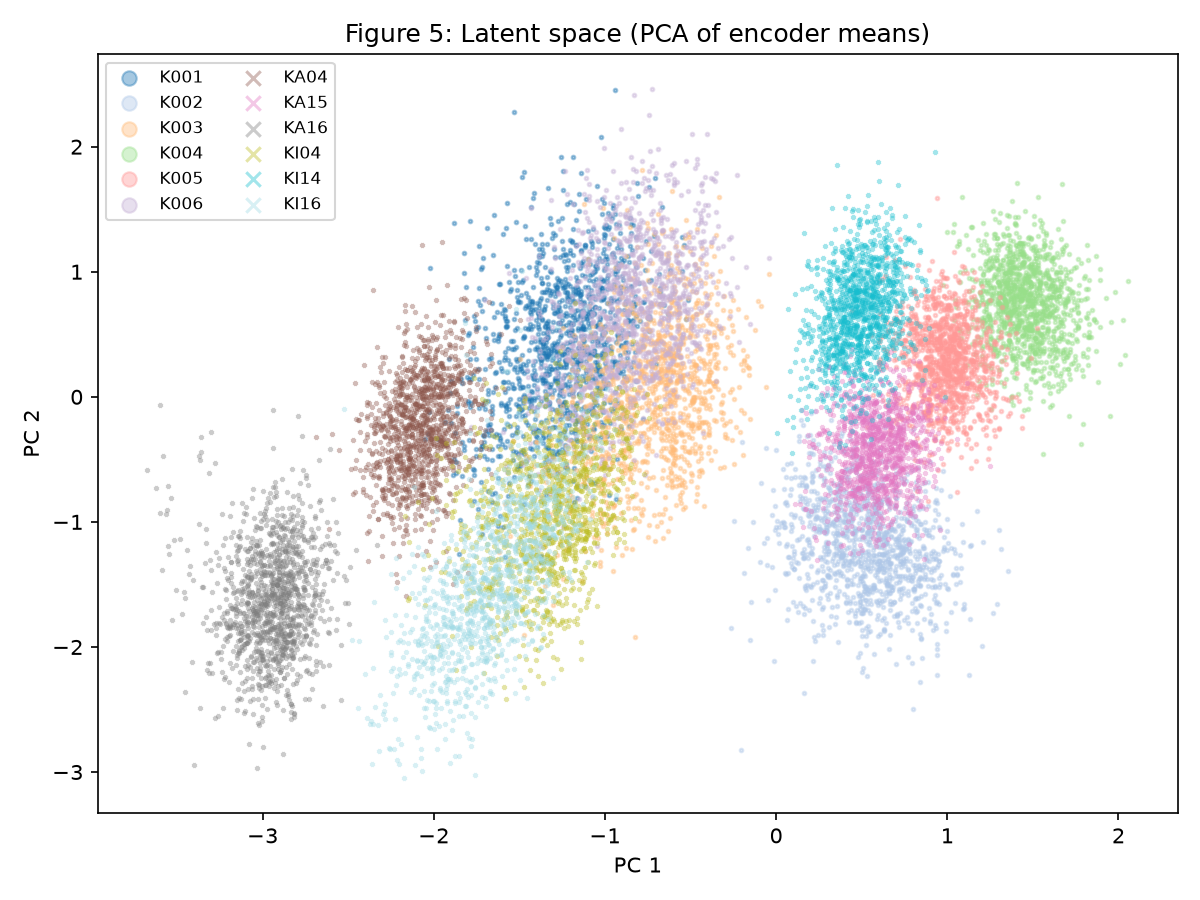
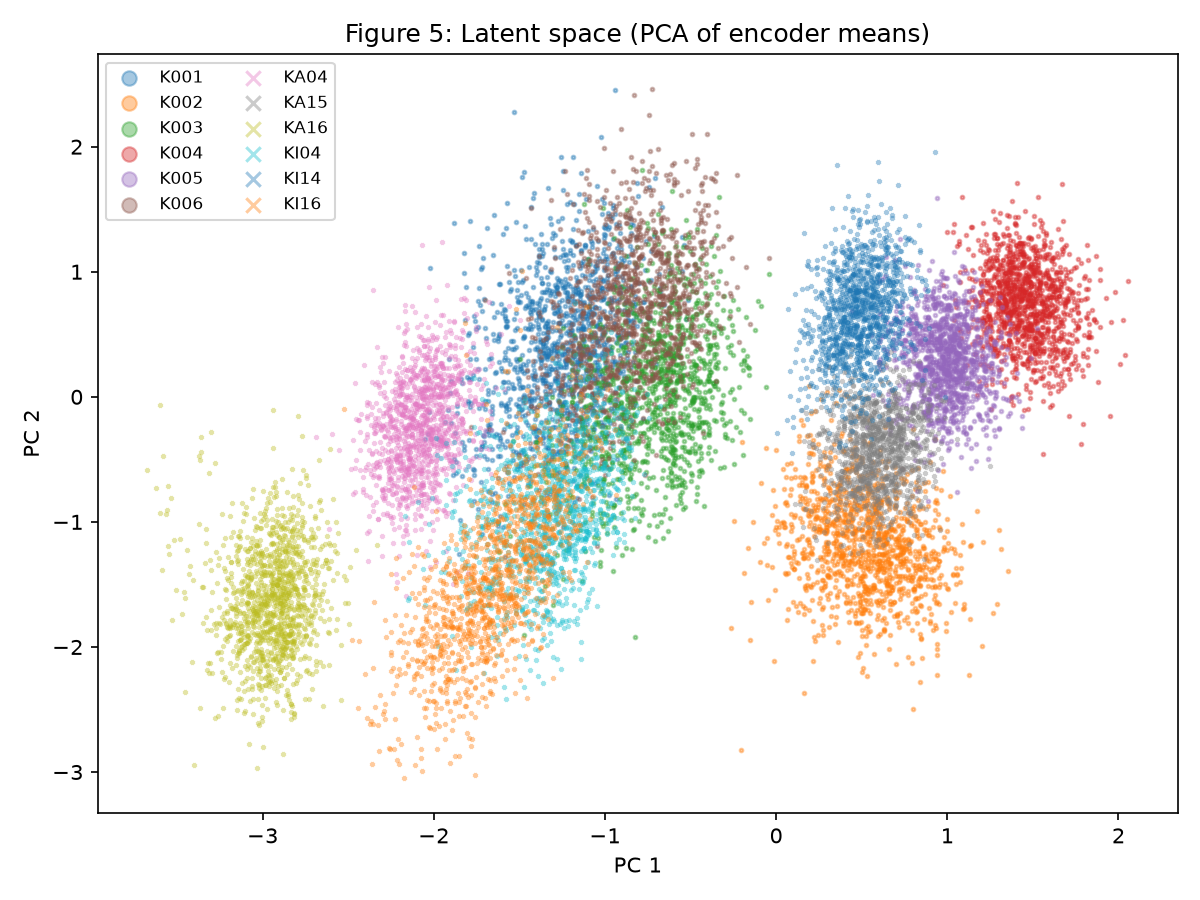
fix: update the requirements.txt file and the notebook

diff --git a/README.md b/README.md
@@ -72,7 +72,7 @@ The trade-off is that any fault information above 10 kHz is thrown away. Even in
 
 ```bash
 python -m venv .venv && source .venv/bin/activate
-pip install numpy scipy pandas matplotlib seaborn scikit-learn torch jupyter
+pip install -r requirements.txt
 jupyter lab generative_model.ipynb      # or open it in VS Code
 ```
 
